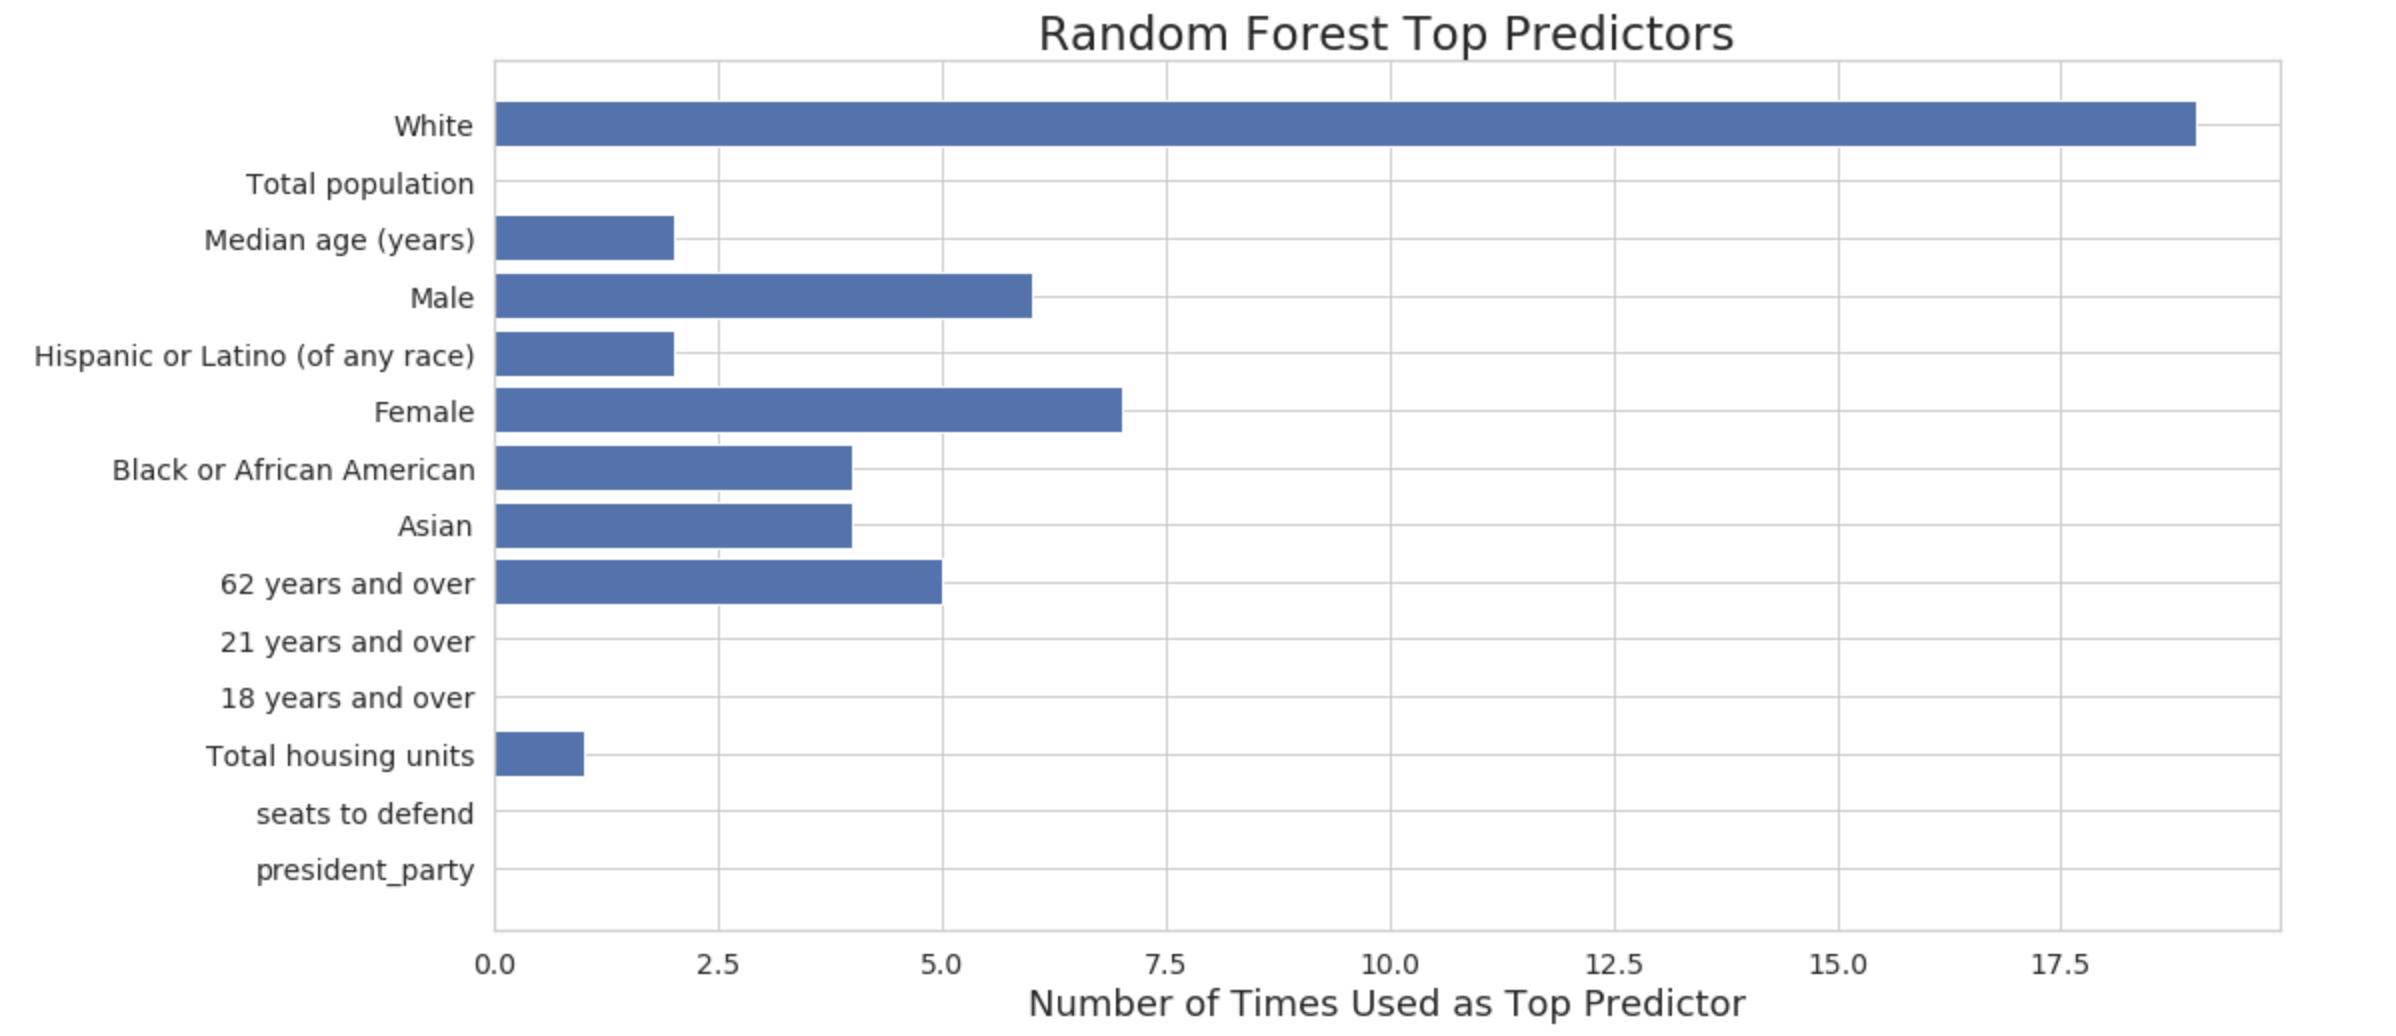
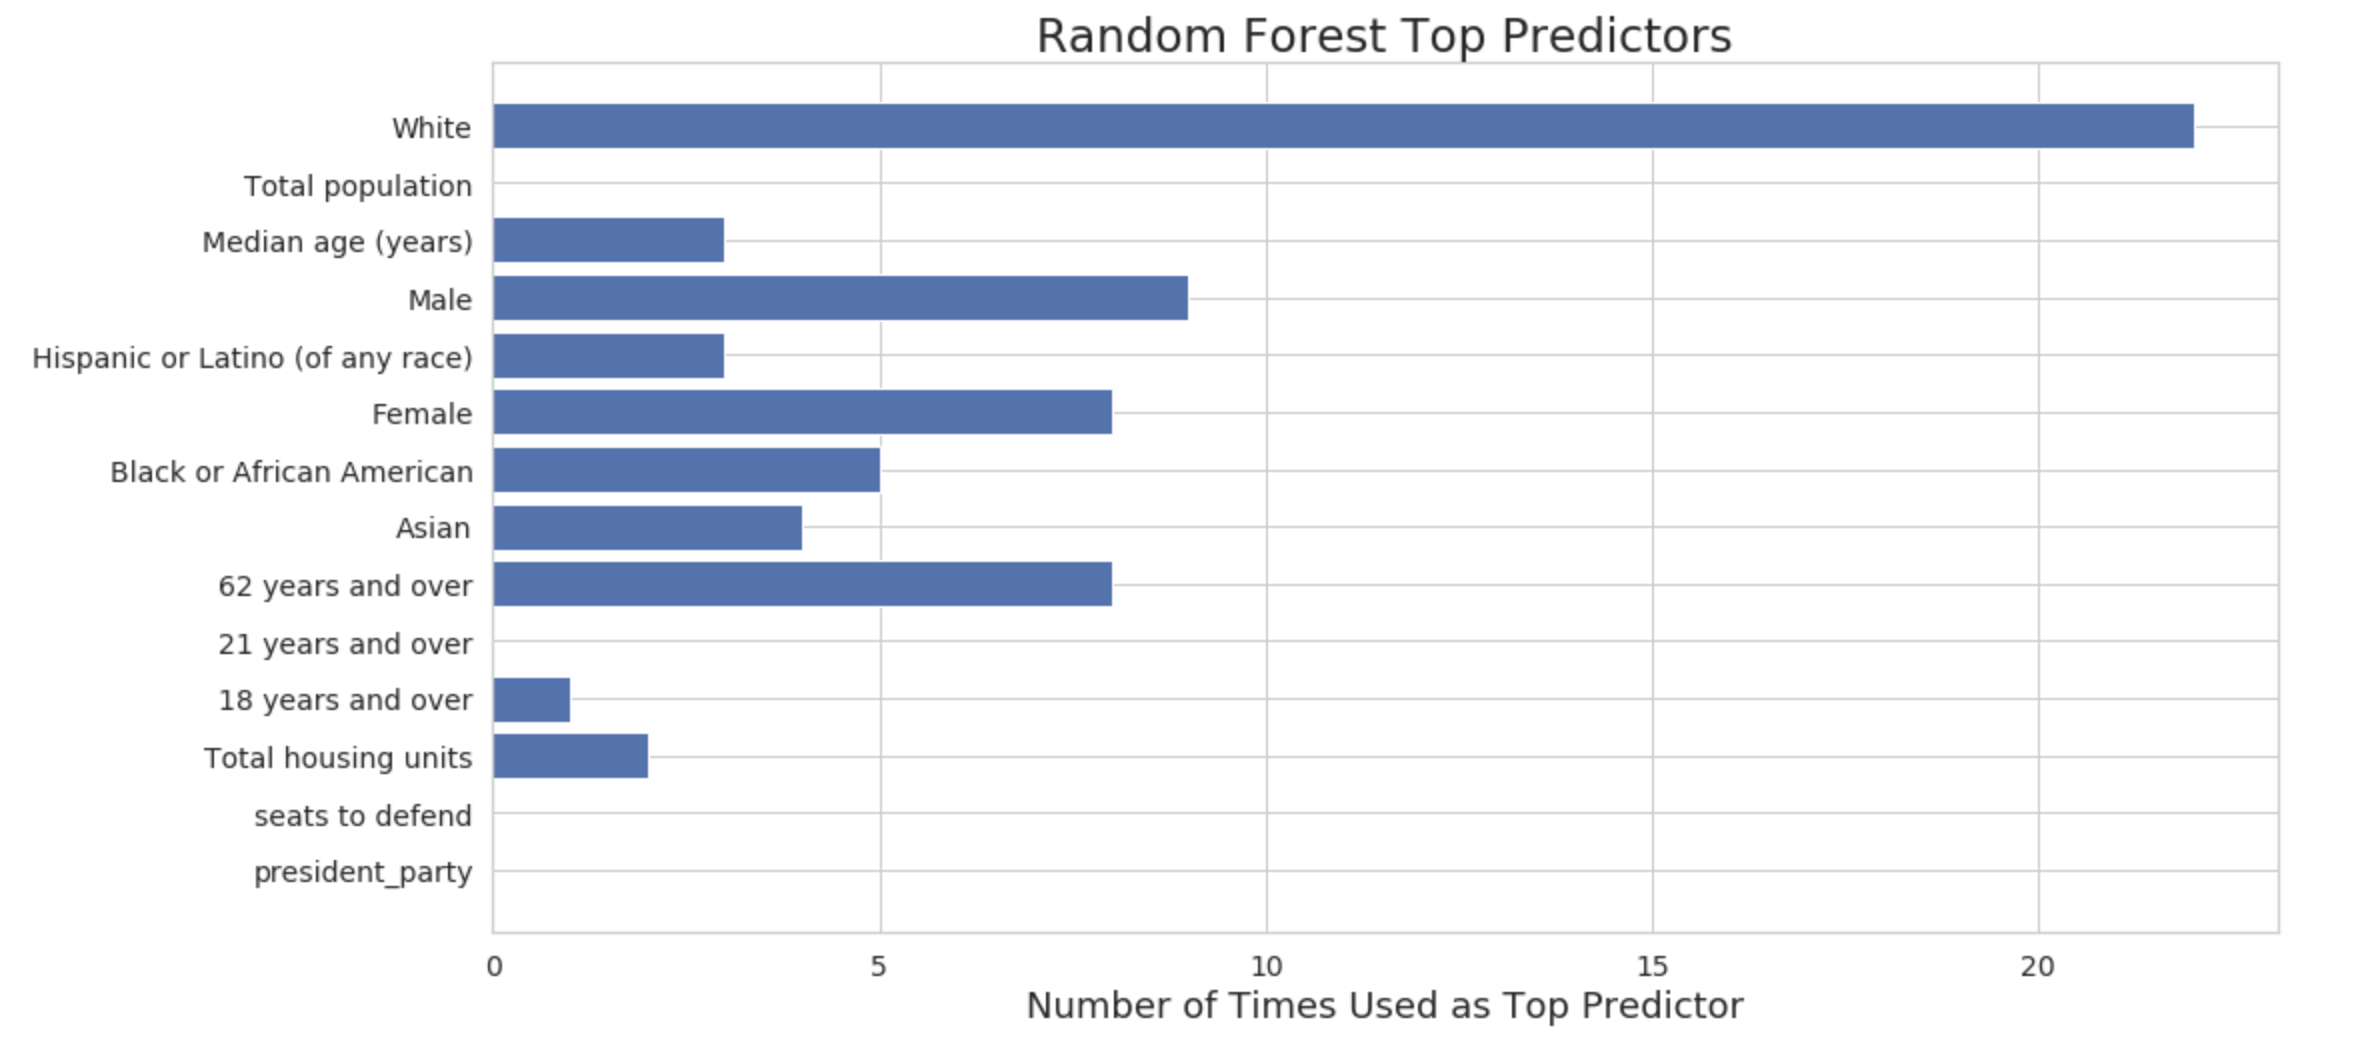
added rf and boosted models to readme

diff --git a/README.md b/README.md
@@ -23,4 +23,38 @@ Primarily, we were able to see how each state has traditionally voted over the p
 
 ![Average Votes by State](https://github.com/Bassatron/housemidterms2018/blob/master/figures/Party_Voting_Averages_by_State.png?raw=true)
 
-![Average Votes by State](https://github.com/Bassatron/housemidterms2018/blob/master/figures/Distributions_of_Change_in_House Seats.png?raw=true)
+![Average Votes by State](https://github.com/Bassatron/housemidterms2018/blob/master/figures/Distributions_of_Change_in_House_Seats.png?raw=true)
+
+## Models
+### Exploratory Baseline Models
+**Linear Model**
+
+We produced a simple exploratory linear regression to get a sense for what predictors would provide the most influence on the results. After producing this exploratory regression, we employed bootstrapping to determine p values for each of our predictors. This allowed us to determine quantitatively which predictors were statistically significant in a linear regression, which allowed us to get a sense of which predictors will be the most important for us as we moved towards more advanced models.
+
+We were able to determine that many of our predictors were not statistically significant. To look into this further, we bootstrap across many samples of the data to produce a more accurate picture of which predictors are significant in our linear regression.
+
+**Ridge Model**
+
+We use a Ridge linear regression model to further get a sense of which predictors were influential in a regression. Ridge regression provides protections against overfitting to the train data by penalizing excessively large coefficients. This increases the predictive accuracy on the test data, and provides coefficients that we can use to more accurately predict the importance of each predictor. We were only able to achieve accuracy of approximately 33% with the ridge model. Only being able to correctly predict the outcome of midterm elections in 33% of midterm elections is not particularly useful and demonstrates the need for more advanced models.
+
+**Lasso Model**
+
+We use a Lasso linear regression to try perform some variable selection on the data. Lasso regression is notorious for its tendency to prefer the removal of insignificant predictors. Thus, by using Lasso regression, we can get an even better sense of which predictors are effectively irrelevant. We discarded those predictors and focused on the remaining ones. Similarly to the ridge model, the lasso model only achieved 33% classification accuracy and solidified the need for more nuanced models.
+
+### Random Forests
+
+After creating basic models to get a general sense of the significance and direction of the predictors, we created more nuanced models to better predict the 2018 midterm results. The first of these models is a Random Forest Classifier. In order to better tune our Random Forest to the data, we tuned the parameters that control the number of trees in the model and the max depth of those trees, until we arrived at the model that recorded the best accuracy on the test data. We found that approximately 65 trees of depth 10 generated the most reliable model, which had 82.0% accuracy.
+
+The bar graph below shows how frequently each of the predictors was used as the most important split for a given tree. We can see that Total population, president_party and seats to defend are never the most important split as those numbers would be the same across all districts for a given year.
+
+![Random Forest Top Predictors](https://github.com/Bassatron/housemidterms2018/blob/master/figures/rf_top_preds.png?raw=true)
+
+### Boosting
+
+Continuing with our more advanced modeling, we created a boosting model through Ada Boost Classifier. The boosting model we employ generates successive Decision Tree Classifiers that outweigh the data points that the previous model struggled with. Thus through multiple iterations we can develop a model that performs better on the challenging data points and thus performs better overall. In order to tune our boosting model, we toggled the base depth of the underlying Decision Tree Classifiers as well as the learning rate which controls the degree to which a model will outweigh the challenging data points from the previous model. The graph below shows the accuracy of our best tuned boosting model on the 2018 midterm test data. As you can see in the graph, the model improves significantly in accuracy during the initial iterations, reaches peak accuracy, and then begins to excessively focus on the challenging data and lose accuracy. We reached our maximum classification accuracy of about 84.5% around approximately 60 iterations of boosting.
+
+![Boosting Iterations](https://github.com/Bassatron/housemidterms2018/blob/master/figures/boost_test_150.png?raw=true)
+
+The graph below also shows classification accuracy by iteration, but includes the accuracy on the train data to demonstrate how the possible dangers of overfitting increase significantly with increased iterations.
+
+![Boosting Accuracy](https://github.com/Bassatron/housemidterms2018/blob/master/figures/boost_both_150.png?raw=true)
